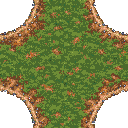
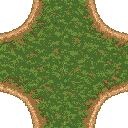
feat(art-study): separate shore materials and test animated water in Phaser

Changed region(s): [[0.0, 0.0, 1.0, 1.0], [0.5625, 0.0, 0.625, 0.0312]]

diff --git a/docs/design/frames/rich-river-kit-2026-10-25/index.html b/docs/design/frames/rich-river-kit-2026-10-25/index.html
@@ -1,12 +1,13 @@
 <!doctype html>
 <html lang="he" dir="rtl"><meta charset="utf-8"><meta name="viewport" content="width=device-width,initial-scale=1"><title>ערכת חיבורי נהר — RICH</title>
-<style>*{box-sizing:border-box}body{margin:0;background:#17251e;color:#eee9d8;font:17px/1.65 system-ui,sans-serif}main{max-width:1100px;margin:auto;padding:24px}h1{font-size:28px;margin:0}h2{font-size:22px}p{max-width:850px}button,select{font:inherit;padding:7px 12px;background:#304d39;color:#eee9d8;border:1px solid #91a483}button{cursor:pointer}a{color:#b6dbe6}.controls{display:flex;gap:10px;align-items:center;flex-wrap:wrap;margin:16px 0}.scene{width:min(100%,576px);position:relative;aspect-ratio:1;overflow:hidden;background:url(depth-transition.png) center/100% 100%;image-rendering:pixelated}.surface{position:absolute;inset:0;background:url(../rich-world-2026-10-25/water.png) 0 0/33.3333% 33.3333%;opacity:.13;image-rendering:pixelated}.bank{position:relative;width:100%;height:100%;display:block;image-rendering:pixelated}.grid-overlay{position:absolute;inset:0;pointer-events:none;background-image:linear-gradient(to right,#fff6 1px,transparent 1px),linear-gradient(to bottom,#fff6 1px,transparent 1px);background-size:16.6667% 16.6667%}[hidden]{display:none!important}.grid{display:grid;grid-template-columns:repeat(auto-fit,minmax(240px,1fr));gap:20px}.atlas{width:100%;image-rendering:pixelated;background:#275a99}.tiles{display:flex;gap:8px;flex-wrap:wrap;direction:ltr}.tiles a{width:64px}.tiles img{display:block;width:64px;height:64px;background:#275a99;image-rendering:pixelated}.note{color:#c4ccba;font-size:15px}figure{margin:0}figcaption{padding:8px 0}@media(max-width:480px){main{padding:14px}h1{font-size:24px}}</style>
+<style>*{box-sizing:border-box}body{margin:0;background:#17251e;color:#eee9d8;font:17px/1.65 system-ui,sans-serif}main{max-width:1100px;margin:auto;padding:24px}h1{font-size:28px;margin:0}h2{font-size:22px}p{max-width:850px}button,select{font:inherit;padding:7px 12px;background:#304d39;color:#eee9d8;border:1px solid #91a483}button{cursor:pointer}a{color:#b6dbe6}.controls{display:flex;gap:10px;align-items:center;flex-wrap:wrap;margin:16px 0}.scene{width:min(100%,576px);position:relative;aspect-ratio:1;overflow:hidden;background:url(depth-transition.png) center/100% 100%;image-rendering:pixelated}.surface{position:absolute;inset:0;background:url(../rich-world-2026-10-25/water.png) 0 0/33.3333% 33.3333%;opacity:.42;image-rendering:pixelated}.bank{position:relative;width:100%;height:100%;display:block;image-rendering:pixelated}.grid-overlay{position:absolute;inset:0;pointer-events:none;background-image:linear-gradient(to right,#fff6 1px,transparent 1px),linear-gradient(to bottom,#fff6 1px,transparent 1px);background-size:16.6667% 16.6667%}[hidden]{display:none!important}.grid{display:grid;grid-template-columns:repeat(auto-fit,minmax(240px,1fr));gap:20px}.atlas{width:100%;image-rendering:pixelated;background:#275a99}.tiles{display:flex;gap:8px;flex-wrap:wrap;direction:ltr}.tiles a{width:64px}.tiles img{display:block;width:64px;height:64px;background:#275a99;image-rendering:pixelated}.note{color:#c4ccba;font-size:15px}figure{margin:0}figcaption{padding:8px 0}@media(max-width:480px){main{padding:14px}h1{font-size:24px}}</style>
 <main><h1>ערכת חיבורי נהר — חלקים להרכבה</h1><p>16 מועמדים לגדות בגודל 64×64: ארבע גדות ישרות, ארבע פינות חיצוניות, ארבע פינות פנימיות, מילוי ושלוש חלופות לגדה הצפונית. בנוסף: קרקעית רדודה ומעבר לעומק. האמנות נוצרה ב־imagegen; הייבוא, החיתוך וההרכבה נעשו בכלי הפרויקט.</p>
+<p><a href="http://127.0.0.1:5189/river-study.html">בדיקת הליכה ומים במנוע המשחק</a> — דורש את שרת הפיתוח המקומי.</p>
 <div class="controls"><label>הרכבה <select id="shape"><option value="inlet">מפרץ — פינות פנימיות וחיצוניות</option><option value="island">אי — הגדלת מסגרת</option></select></label><button id="grid" aria-pressed="false">הצגת גבולות אריחים</button><button id="motion" aria-pressed="true">עצירת פני המים</button><button id="bank" aria-pressed="true">הסתרת יבשה</button></div>
 <div class="scene" role="img" aria-label="הרכבה חוזרת של אריחי גדה מעל שכבת עומק ופני מים נפרדים"><div class="surface" id="surface"></div><img class="bank" id="assembly" src="inlet-assembly.png" alt="מפרץ מורכב מאריחי 64 פיקסלים"><div class="grid-overlay" id="grid-overlay" hidden></div></div>
 <p class="note">זו בדיקת חיבור, לא מפה חדשה. פריסת העומק משמאל לימין כאן מדגימה חומר בלבד; היא אינה חישוב עומק סביב כל פינה. פני המים הם שכבה נפרדת, והצמחייה והקצף אינם מצוירים בתוך הגדות.</p>
-<h2>ממצאי ההרכבה</h2><p>נוצרות צורות עם פינות קעורות וקמורות מאותם חלקים, אבל עדיין נראים חזרות של כתמי אדמה ושינויים בעובי השפה. בבדיקת גבולות האלפא נרשמו 20 הבדלי פיקסלים באי ו־30 במפרץ. המספר הוא כלי אבחון, לא אישור איכות; הערכה עדיין אינה מוכנה להחליף את מפת המשחק. שני מצבי מגע אלכסוני בלבד אינם נתמכים בשלב זה.</p>
-<div class="grid"><figure><h2>גדות ופינות חיצוניות</h2><a href="bank-outer-source.png"><img class="atlas" src="bank-outer.png" alt="לוח תשעה חלקים: פינות, גדות ומילוי"></a><figcaption>לוח 192×192, מחולק ל־3×3. לחיצה פותחת את מקור הציור.</figcaption></figure><figure><h2>פינות פנימיות</h2><a href="bank-inner-source.png"><img class="atlas" src="bank-inner.png" alt="לוח ארבע פינות פנימיות"></a><figcaption>לוח 128×128, מחולק ל־2×2.</figcaption></figure><figure><h2>חלופות לגדה ישרה</h2><a href="bank-variants-source.png"><img class="atlas" src="bank-variants.png" alt="שלוש חלופות של גדה צפונית"></a><figcaption>שלוש חלופות חומר; צריך להשוות את נקודות החיבור לפני החלפה חופשית.</figcaption></figure></div>
+<h2>ממצאי ההרכבה</h2><p>נוצרות צורות עם פינות קעורות וקמורות מאותם חלקים, אבל עדיין נראים חזרות של כתמי אדמה ושינויים בעובי השפה. האבנים הבולטות הוסרו מגרסת הבסיס החדשה; וריאציות הגדה הנוספות עדיין דורשות התאמה אליה. בדיקת גבולות האלפא מתועדת בקובץ הייבוא; עדיין יש סטיות שפה לליטוש. המספר הוא כלי אבחון, לא אישור איכות; הערכה עדיין אינה מוכנה להחליף את מפת המשחק. שני מצבי מגע אלכסוני בלבד אינם נתמכים בשלב זה.</p>
+<div class="grid"><figure><h2>גדות ופינות חיצוניות</h2><a href="bank-outer-quiet-source.png"><img class="atlas" src="bank-outer.png" alt="לוח תשעה חלקים: פינות, גדות ומילוי"></a><figcaption>לוח 192×192, מחולק ל־3×3. לחיצה פותחת את מקור הציור.</figcaption></figure><figure><h2>פינות פנימיות</h2><a href="bank-inner-quiet-source.png"><img class="atlas" src="bank-inner.png" alt="לוח ארבע פינות פנימיות"></a><figcaption>לוח 128×128, מחולק ל־2×2.</figcaption></figure><figure><h2>חלופות לגדה ישרה</h2><a href="bank-variants-source.png"><img class="atlas" src="bank-variants.png" alt="שלוש חלופות של גדה צפונית"></a><figcaption>שלוש חלופות חומר; צריך להשוות את נקודות החיבור לפני החלפה חופשית.</figcaption></figure></div>
 <h2>החלקים בגודל המקורי</h2><div class="tiles" id="tiles"></div>
 <div class="grid"><figure><h2>קרקעית רדודה</h2><a href="riverbed-source.png"><img class="atlas" src="riverbed.png" alt="חול וחלוקים קטנים בקרקעית רדודה"></a><figcaption>קרקעית סטטית, ללא גלים או קצף מצוירים.</figcaption></figure><figure><h2>מעבר מרדוד לעמוק</h2><a href="depth-transition-source.png"><img class="atlas" src="depth-transition.png" alt="קרקעית נראית במים רדודים שמתחלפת בכחול עמוק"></a><figcaption>כיוון אחד כרגע. פינות עומק, חזרות והחיבור לקרקעית עדיין דורשים בדיקה.</figcaption></figure></div>
 <h2>המשך העבודה ללא יצירת תמונות</h2><p>מקורות הציור נשמרו. אפשר להמשיך ברישום החלקים, בדיקת תפרים, בחירת וריאציות ובניית תצוגה במנוע. תיקון אמנותי של שפה או הוספת משפחת חוף אחרת עדיין עשויים לדרוש ציור נוסף; אין כאן הבטחה שהמקורות כבר מכסים כל מצב.</p>
@@ -16,6 +17,6 @@ const $=id=>document.getElementById(id),media=matchMedia('(prefers-reduced-motio
 for(const name of [...[4,12,8,6,15,9,2,3,1,14,13,7,11].map(n=>'bank-'+n),...[0,1,2].map(n=>'bank-n-variant-'+n)]){const a=document.createElement('a');a.href=name+'.png';const img=document.createElement('img');img.src=a.href;img.alt=name;a.append(img);$('tiles').append(a);}
 $('shape').onchange=()=>{$('assembly').src=$('shape').value+'-assembly.png';$('assembly').alt=$('shape').value==='island'?'אי מורכב מאריחים':'מפרץ מורכב מאריחים';};$('grid').onclick=()=>{const on=$('grid-overlay').hidden;$('grid-overlay').hidden=!on;$('grid').setAttribute('aria-pressed',String(on));$('grid').textContent=on?'הסתרת גבולות אריחים':'הצגת גבולות אריחים';};$('bank').onclick=()=>{const on=$('assembly').hidden;$('assembly').hidden=!on;$('bank').setAttribute('aria-pressed',String(on));$('bank').textContent=on?'הסתרת יבשה':'הצגת יבשה';};
 function update(){if(raf)cancelAnimationFrame(raf);raf=0;last=0;$('motion').setAttribute('aria-pressed',String(running));$('motion').textContent=running?'עצירת פני המים':'הפעלת פני המים';if(running&&!document.hidden)raf=requestAnimationFrame(tick);}
-function tick(now){raf=0;if(!running||document.hidden)return;if(last)time+=Math.min(now-last,50);last=now;$('surface').style.backgroundPosition=`0px ${Math.floor(time/400)%128/128*$('surface').clientWidth/3}px`;raf=requestAnimationFrame(tick);}
+function tick(now){raf=0;if(!running||document.hidden)return;if(last)time+=Math.min(now-last,50);last=now;$('surface').style.backgroundPosition=`0px ${Math.floor(time/120)%128/128*$('surface').clientWidth/3}px`;raf=requestAnimationFrame(tick);}
 $('motion').onclick=()=>{running=!running;update();};document.addEventListener('visibilitychange',update);media.addEventListener('change',()=>{running=!media.matches;update();});update();
 </script></html>

diff --git a/game/src/river-study.ts b/game/src/river-study.ts
@@ -1,0 +1,124 @@
+/// <reference types="vite/client" />
+/** Dev-only Phaser study: the normal Vite build still enters index.html/main.ts. */
+import * as Phaser from 'phaser';
+import { chooseShoreVariant, type ShoreMaterial } from './shore-material';
+import materialJson from '../../docs/design/frames/rich-river-kit-2026-10-25/material.json';
+import importReport from '../../docs/design/frames/rich-river-kit-2026-10-25/imports.json';
+import waterUrl from '../../docs/design/frames/rich-world-2026-10-25/water.png?url';
+import depthUrl from '../../docs/design/frames/rich-river-kit-2026-10-25/depth-transition.png?url';
+import foamUrl from '../../docs/design/frames/rich-world-2026-10-25/foam.png?url';
+import playerUrl from '../../content/kit/core/chars/player_down.png?url';
+
+const bankUrls = import.meta.glob('../../docs/design/frames/rich-river-kit-2026-10-25/bank-*.png', { eager: true, query: '?url', import: 'default' }) as Record<string, string>;
+const material: ShoreMaterial = materialJson;
+const grid = importReport.seams.find(s => s.name === 'inlet')!.grid;
+const tileSize = 64;
+const extent = grid.length * tileSize;
+const reduced = matchMedia('(prefers-reduced-motion: reduce)');
+
+class RiverStudy extends Phaser.Scene {
+  private actor!: Phaser.GameObjects.Sprite;
+  private water!: Phaser.GameObjects.TileSprite;
+  private keys!: Record<string, Phaser.Input.Keyboard.Key>;
+  private selected: string[][] = [];
+  private flowing = !reduced.matches;
+  private clock = 0;
+  private repeats = 0;
+  private foam: Phaser.GameObjects.Image[] = [];
+  private waterClock = 0;
+
+  constructor() { super('river-study'); }
+
+  preload(): void {
+    this.load.image('water', waterUrl);
+    this.load.image('depth', depthUrl);
+    this.load.image('foam', foamUrl);
+    this.load.spritesheet('player', playerUrl, { frameWidth: 16, frameHeight: 24 });
+    for (const v of material.variants) {
+      const entry = Object.entries(bankUrls).find(([path]) => path.endsWith(`/${v.texture}.png`));
+      if (!entry) throw new Error(`Missing shore asset ${v.texture}`);
+      this.load.image(v.texture, entry[1]);
+    }
+  }
+
+  create(): void {
+    this.add.image(0, 0, material.water.bed).setOrigin(0).setDisplaySize(extent, extent);
+    this.water = this.add.tileSprite(0, 0, extent, extent, material.water.surface).setOrigin(0).setAlpha(material.water.opacity);
+    const motifs: string[][] = [];
+    for (let y = 0; y < grid.length; y++) {
+      this.selected[y] = [];
+      motifs[y] = [];
+      for (let x = 0; x < grid[y]!.length; x++) {
+        const mask = grid[y]![x]!;
+        if (!mask) continue;
+        const nearby = [motifs[y]?.[x - 1], motifs[y - 1]?.[x]].filter((v): v is string => !!v);
+        const choice = chooseShoreVariant(material, mask, x, y, nearby);
+        if (!choice) throw new Error(`Missing compatible shore: ${material.id}/${mask}`);
+        this.selected[y]![x] = choice.variant.texture;
+        motifs[y]![x] = choice.variant.motif;
+        if (choice.repeatedMotif) this.repeats++;
+        this.add.image(x * tileSize, y * tileSize, choice.variant.texture).setOrigin(0).setDepth(2);
+      }
+    }
+    for (const [x, y] of [[330, 180], [280, 220], [330, 270]]) {
+      if (!this.landAt(x!, y!)) this.foam.push(this.add.image(x!, y!, material.water.foam).setScale(.5).setDepth(1).setAlpha(.35));
+    }
+    this.actor = this.add.sprite(125, 140, 'player', 1).setOrigin(.5, 1).setScale(4).setDepth(10);
+    this.keys = this.input.keyboard!.addKeys('UP,DOWN,LEFT,RIGHT,W,A,S,D') as Record<string, Phaser.Input.Keyboard.Key>;
+    const camera = this.cameras.main;
+    camera.setBounds(-48, -48, extent + 96, extent + 96);
+    camera.startFollow(this.actor, true, .15, .15);
+    camera.setFollowOffset(0, 32);
+    const waterButton = document.getElementById('water')!;
+    const updateLabel = () => { waterButton.textContent = this.flowing ? 'עצירת מים' : 'הפעלת מים'; waterButton.setAttribute('aria-pressed', String(this.flowing)); };
+    waterButton.onclick = () => { this.flowing = !this.flowing; updateLabel(); };
+    document.getElementById('zoom')!.onclick = () => {
+      const zoom = camera.zoom === 1 ? 2 : 1;
+      camera.setZoom(zoom);
+      document.getElementById('zoom')!.textContent = zoom === 1 ? 'קירוב ×2' : 'מבט רחב';
+    };
+    const onReduced = () => { this.flowing = !reduced.matches; updateLabel(); };
+    reduced.addEventListener('change', onReduced);
+    this.events.once('shutdown', () => reduced.removeEventListener('change', onReduced));
+    updateLabel();
+    document.getElementById('status')!.textContent = `דשא וחצץ · ${this.repeats} חזרות שעדיין חסרה להן חלופה`;
+    (window as unknown as { __riverStudy: RiverStudy }).__riverStudy = this;
+  }
+
+  private landAt(x: number, y: number): boolean {
+    const tx = Math.floor(x / tileSize), ty = Math.floor(y / tileSize);
+    const texture = this.selected[ty]?.[tx];
+    return !!texture && (this.textures.getPixel(Math.floor(x) - tx * tileSize, Math.floor(y) - ty * tileSize, texture)?.alpha ?? 0) >= 128;
+  }
+
+  override update(_time: number, delta: number): void {
+    if (!this.actor || document.hidden) return;
+    const dt = Math.min(delta, 50) / 1000;
+    if (this.flowing) {
+      this.water.tilePositionY -= material.water.speed * dt;
+      this.waterClock += dt;
+      this.foam.forEach((image, index) => image.setAlpha(.15 + .2 * (Math.sin(this.waterClock * 1.2 + index * 2) + 1) / 2));
+    }
+    let dx = Number(this.keys.RIGHT!.isDown || this.keys.D!.isDown) - Number(this.keys.LEFT!.isDown || this.keys.A!.isDown);
+    let dy = Number(this.keys.DOWN!.isDown || this.keys.S!.isDown) - Number(this.keys.UP!.isDown || this.keys.W!.isDown);
+    const pointer = this.input.activePointer;
+    if (!dx && !dy && pointer.isDown) {
+      const target = this.cameras.main.getWorldPoint(pointer.x, pointer.y);
+      dx = target.x - this.actor.x; dy = target.y - this.actor.y;
+      if (Math.hypot(dx, dy) < 8) dx = dy = 0;
+    }
+    const length = Math.hypot(dx, dy);
+    if (length) {
+      dx = dx / length * 125 * dt; dy = dy / length * 125 * dt;
+      // Study-only alpha collision; shipped gameplay continues to use the kernel map.
+      if (this.landAt(this.actor.x + dx - 5, this.actor.y) && this.landAt(this.actor.x + dx + 5, this.actor.y)) this.actor.x += dx;
+      if (this.landAt(this.actor.x, this.actor.y + dy - 3) && this.landAt(this.actor.x, this.actor.y + dy + 3)) this.actor.y += dy;
+      this.clock += dt;
+      this.actor.setFrame(Math.floor(this.clock * 8) % 3);
+    } else this.actor.setFrame(1);
+  }
+}
+
+const host = document.getElementById('game')!;
+const game = new Phaser.Game({ type: Phaser.AUTO, parent: host, pixelArt: true, roundPixels: true, banner: false, backgroundColor: '#172a52', scale: { mode: Phaser.Scale.RESIZE, width: host.clientWidth, height: host.clientHeight }, scene: [RiverStudy] });
+window.addEventListener('pagehide', () => game.destroy(true), { once: true });

diff --git a/game/test/shore-material.test.ts b/game/test/shore-material.test.ts
@@ -1,0 +1,27 @@
+import { expect, test } from 'vitest';
+import { chooseShoreVariant, type ShoreMaterial, type ShoreVariant } from '../src/shore-material';
+
+const variant = (id: string, motif = id, profile = 'half'): ShoreVariant => ({ id, motif, profile, mask: 12, texture: id });
+const material = (variants: ShoreVariant[]): ShoreMaterial => ({ id: 'gravel', profile: 'half', variants, water: { bed: 'bed', surface: 'water', foam: 'foam', speed: 8, opacity: 0.4 } });
+
+test('avoids a repeated motif including different images of the same motif', () => {
+  const m = material([variant('stone-a', 'stone'), variant('stone-mirrored', 'stone'), variant('quiet')]);
+  for (let x = -20; x < 20; x++) expect(chooseShoreVariant(m, 12, x, 3, ['stone'])?.variant.id).toBe('quiet');
+});
+test('does not use another shape or incompatible shore profile to hide a missing asset', () => {
+  const m = material([variant('wrong', 'quiet', 'cliff')]);
+  expect(chooseShoreVariant(m, 12, 0, 0)).toBeUndefined();
+  expect(chooseShoreVariant(material([variant('north')]), 4, 0, 0)).toBeUndefined();
+});
+test('selection is stable across registration order and reports unavoidable repetition', () => {
+  const a = variant('a'), b = variant('b');
+  expect(chooseShoreVariant(material([a, b]), 12, -2, 7)).toEqual(chooseShoreVariant(material([b, a]), 12, -2, 7));
+  expect(chooseShoreVariant(material([a]), 12, 0, 0, ['a'])?.repeatedMotif).toBe(true);
+});
+test('families retain their own water layers and cannot leak variants across materials', () => {
+  const sand = { ...material([variant('sand')]), id: 'sand', water: { bed: 'sand-bed', surface: 'calm', foam: 'small-foam', speed: 2, opacity: .25 } };
+  const rock = material([variant('rock')]);
+  expect(chooseShoreVariant(sand, 12, 0, 0)?.variant.texture).toBe('sand');
+  expect(chooseShoreVariant(rock, 12, 0, 0)?.variant.texture).toBe('rock');
+  expect(sand.water.surface).toBe('calm');
+});

diff --git a/game/src/shore-material.ts b/game/src/shore-material.ts
@@ -1,0 +1,32 @@
+/** Client-side artwork selection. Material identity is separate from shoreline topology. */
+export interface ShoreVariant {
+  id: string;
+  motif: string;
+  texture: string;
+  mask: number;
+  profile: string;
+}
+
+export interface ShoreMaterial {
+  id: string;
+  profile: string;
+  variants: readonly ShoreVariant[];
+  water: { bed: string; surface: string; foam: string; speed: number; opacity: number };
+}
+
+export interface ShoreChoice {
+  variant: ShoreVariant;
+  repeatedMotif: boolean;
+}
+
+/** Never silently substitute a different material or an incompatible shoreline profile. */
+export function chooseShoreVariant(material: ShoreMaterial, mask: number, x: number, y: number, nearbyMotifs: readonly string[] = []): ShoreChoice | undefined {
+  const compatible = material.variants.filter(v => v.mask === mask && v.profile === material.profile);
+  if (!compatible.length) return undefined;
+  const fresh = compatible.filter(v => !nearbyMotifs.includes(v.motif));
+  // Sort by stable id so file/registration order never changes the same area's appearance.
+  const pool = [...(fresh.length ? fresh : compatible)].sort((a, b) => a.id < b.id ? -1 : a.id > b.id ? 1 : 0);
+  const hash = (Math.imul(x, 73856093) ^ Math.imul(y, 19349663)) >>> 0;
+  const variant = pool[hash % pool.length]!;
+  return { variant, repeatedMotif: nearbyMotifs.includes(variant.motif) };
+}

diff --git a/game/river-study.html b/game/river-study.html
@@ -1,0 +1,1 @@
+<!doctype html><html lang="he" dir="rtl"><meta charset="utf-8"><meta name="viewport" content="width=device-width,initial-scale=1"><title>בדיקת נהר במנוע</title><style>body{height:100dvh;display:flex;flex-direction:column;margin:0;background:#17251e;color:#eee9d8;font:16px/1.5 system-ui}header{flex:none;padding:10px 16px}h1{font-size:22px;margin:0}p{margin:5px 0}button{font:inherit;background:#304d39;color:inherit;border:1px solid #92a383;padding:5px 12px;margin-left:8px}#game{flex:1;min-height:0;touch-action:none}canvas{display:block}#status{font-size:13px;color:#ccd5c1}</style><header><h1>בדיקת הנהר במנוע המשחק</h1><p>חצים / WASD, או לחיצה ממושכת בכיוון ההליכה. דמות קיימת לבדיקת קנה מידה.</p><button id="water">עצירת מים</button><button id="zoom">קירוב ×2</button><span id="status">טוען…</span><p style="font-size:12px">אזור ניסוי מקומי בלבד: ללא שמירה, משימות או שינוי במפת הפתיחה. משפחת חוף אחת כרגע.</p></header><div id="game"></div><script type="module" src="/src/river-study.ts"></script></html>

diff --git a/tools/src/kit/import-river-study.ts b/tools/src/kit/import-river-study.ts
@@ -36,7 +36,7 @@ for (let index = 0; index < 3; index += 1) {
 }
 reports.push({ name: 'bank-variants', cells: 3, ramps: banks, registration: 'nearest sample of full192x64 canvas; hard alpha and palette snap; no trimming', status: 'alternatives need endpoint review before substitution' });
 for (const name of ['bank-outer', 'bank-inner']) {
-  const imported = importSprite(readFileSync(`${folder}${name}-source.png`), {
+  const imported = importSprite(readFileSync(`${folder}${name}-quiet-source.png`), {
     width: 128, height: 128, anchor: 'center', padding: 0,
     palette: paletteWithRamps(banks), outline: false, dither: true,
   });
